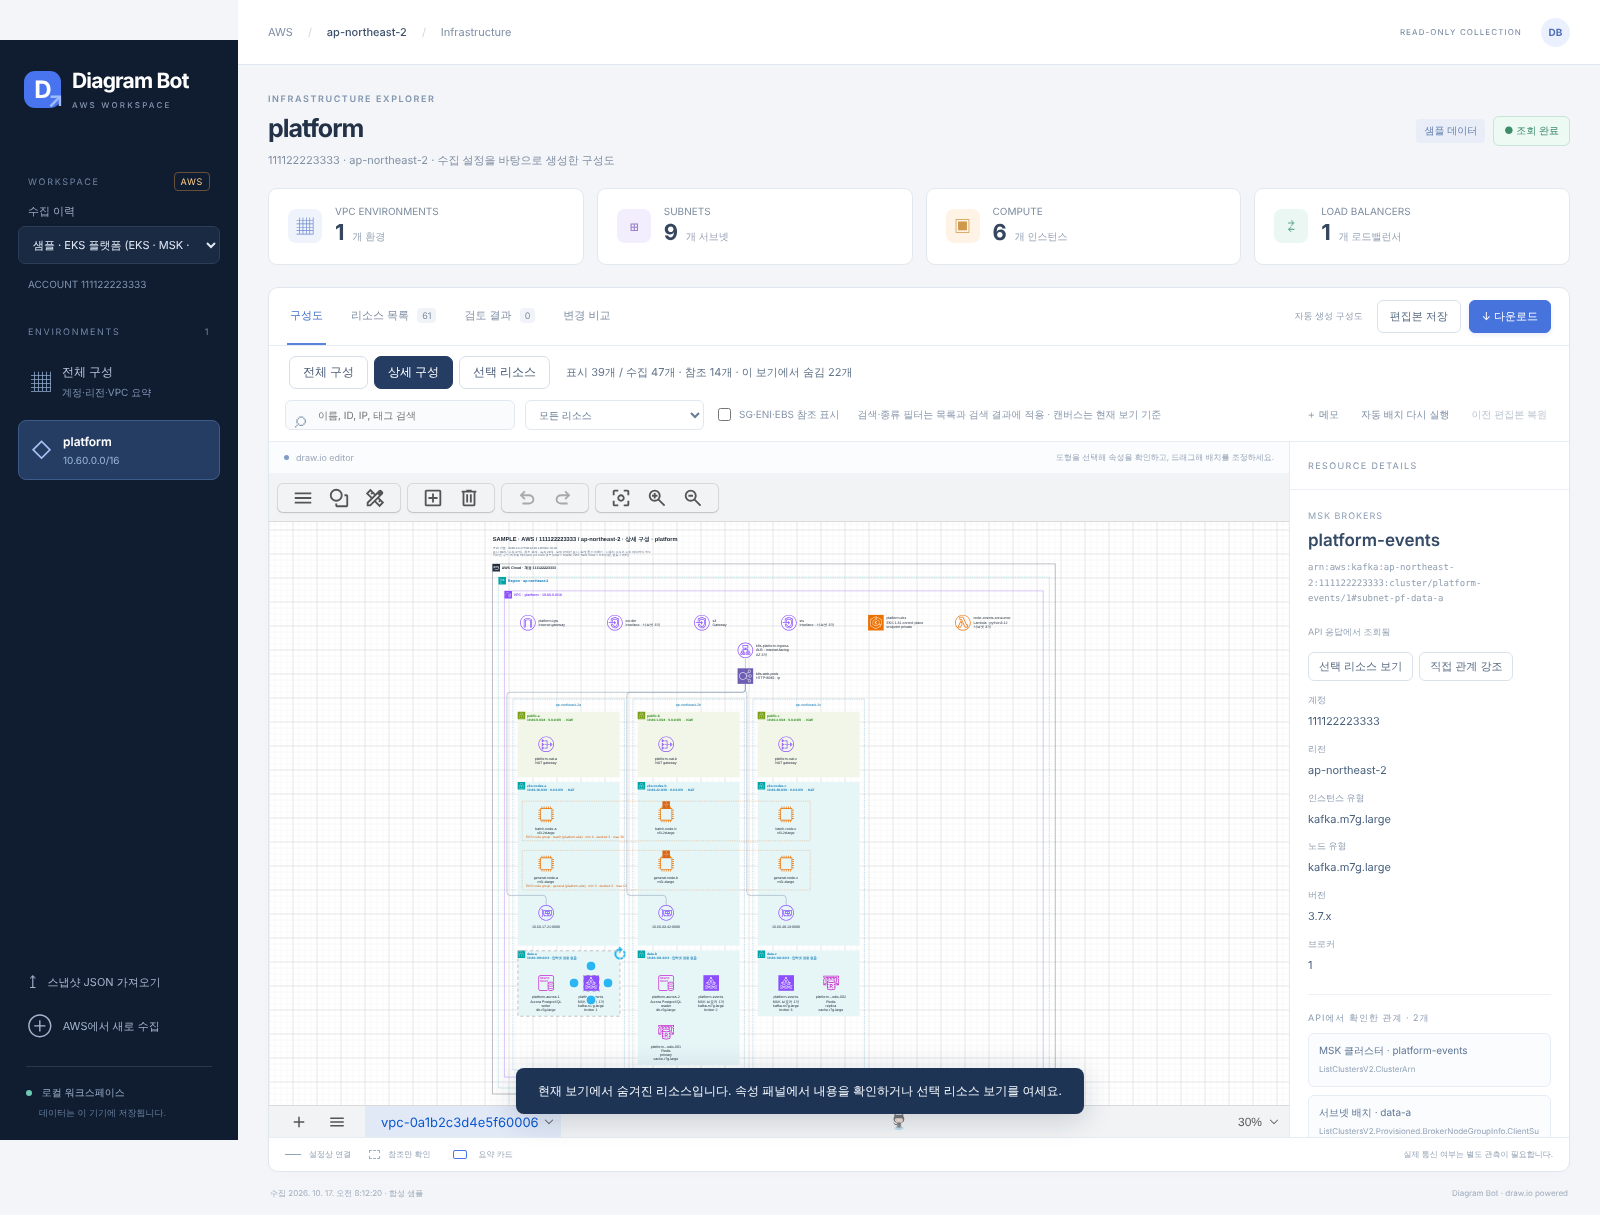
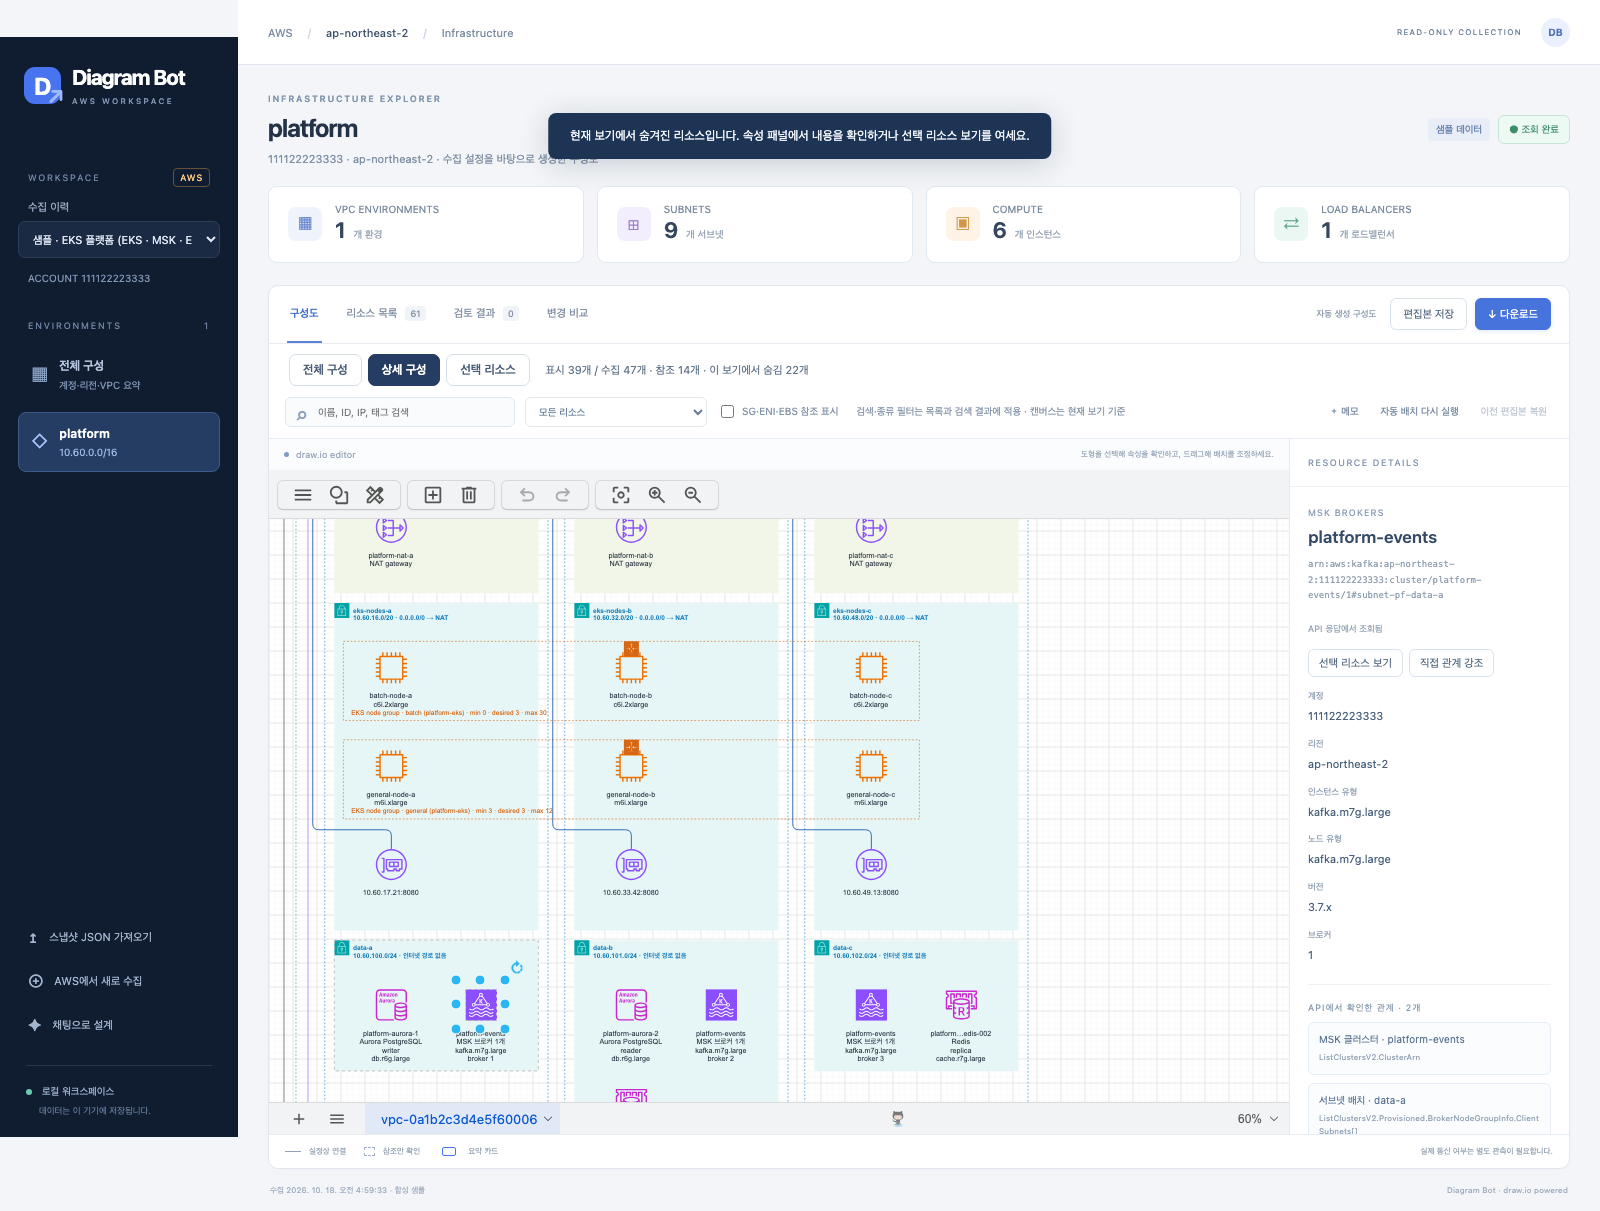
feat: one colour per target group for registration routes; refresh screenshots
Routes of several target groups share a gutter 8 px apart; colouring each target
group's trunk tells them apart. docs/images and examples/demo regenerated by
scripts/verify_demo.py (27 checks, no page errors or external requests).

diff --git a/src/diagram_bot/layout.py b/src/diagram_bot/layout.py
@@ -716,7 +716,8 @@ def route(canvas, drawn_edges, vpc_of, placed, lanes, tg_order, subnet_at, frame
             channel = geometry["channel"] + 7 * tg_order.get(e["target"], 0)
             side_y = y + spec["entry"] * h
             path = [(x, side_y), (spec["x"], side_y), (spec["x"], channel), (gx + ICON / 2, channel), (gx + ICON / 2, gy + ICON)]
-            canvas.edges.append(edge_entry(e, path, f"exitX=0;exitY={spec['entry']:.3f};entryX=0.5;entryY=1;"))
+            canvas.edges.append({**edge_entry(e, path, f"exitX=0;exitY={spec['entry']:.3f};entryX=0.5;entryY=1;"),
+                                 "stroke": tg_stroke(tg_order, e["target"])})
             continue
         sx, sy = position(e["source"])
         if spec["kind"] == "remote":
@@ -754,10 +755,19 @@ def route(canvas, drawn_edges, vpc_of, placed, lanes, tg_order, subnet_at, frame
         label = f":{e['qualifiers']['port']}" if len(ports) > 1 and e["qualifiers"].get("port") is not None else ""
         entry = edge_entry(e, path, constraints, label)
         entry["label_offset"] = (-16 if spec["entry"] < 0.5 else 18, -9)
+        if spec["kind"] == "bus":
+            entry["stroke"] = tg_stroke(tg_order, e["source"])
         canvas.edges.append(entry)
 
 
 OUTSIDE_BOXES = {"references", "onprem"}
+# Registration routes of different target groups share gutters 8 px apart; one colour per target
+# group (in channel order) tells them apart. Chosen to stay clear of the subnet, VPC and ASG colours.
+TG_STROKES = ("#1F5FAD", "#B4387A", "#8A6D00", "#2E7D32", "#7A4E2D")
+
+
+def tg_stroke(tg_order, tg):
+    return TG_STROKES[tg_order[tg] % len(TG_STROKES)] if tg in tg_order else None
 
 
 def outside_vpc(node):

diff --git a/src/diagram_bot/drawio.py b/src/diagram_bot/drawio.py
@@ -158,7 +158,8 @@ def page(file, layout, name):
             continue
         obj = SubElement(root, "object", {"id": edge["id"], "label": edge["label"], "relationId": edge["relation_id"],
                                           "relation": RELATIONS.get(edge["relation"], edge["relation"]), "evidence": edge["evidence"]})
-        style = edge["constraints"] + EDGE + ("dashed=1;strokeColor=#A0AEC0;" if edge.get("auxiliary") else "")
+        style = edge["constraints"] + EDGE + ("dashed=1;strokeColor=#A0AEC0;" if edge.get("auxiliary") else "") \
+            + (f"strokeColor={edge['stroke']};" if edge.get("stroke") else "")
         cell = SubElement(obj, "mxCell", {"edge": "1", "parent": "1", "source": edge["source"], "target": edge["target"], "style": style})
         labelled = edge["label"] and edge.get("label_offset")
         geometry = SubElement(cell, "mxGeometry", {"relative": "1", "as": "geometry", **({"x": "1"} if labelled else {})})
